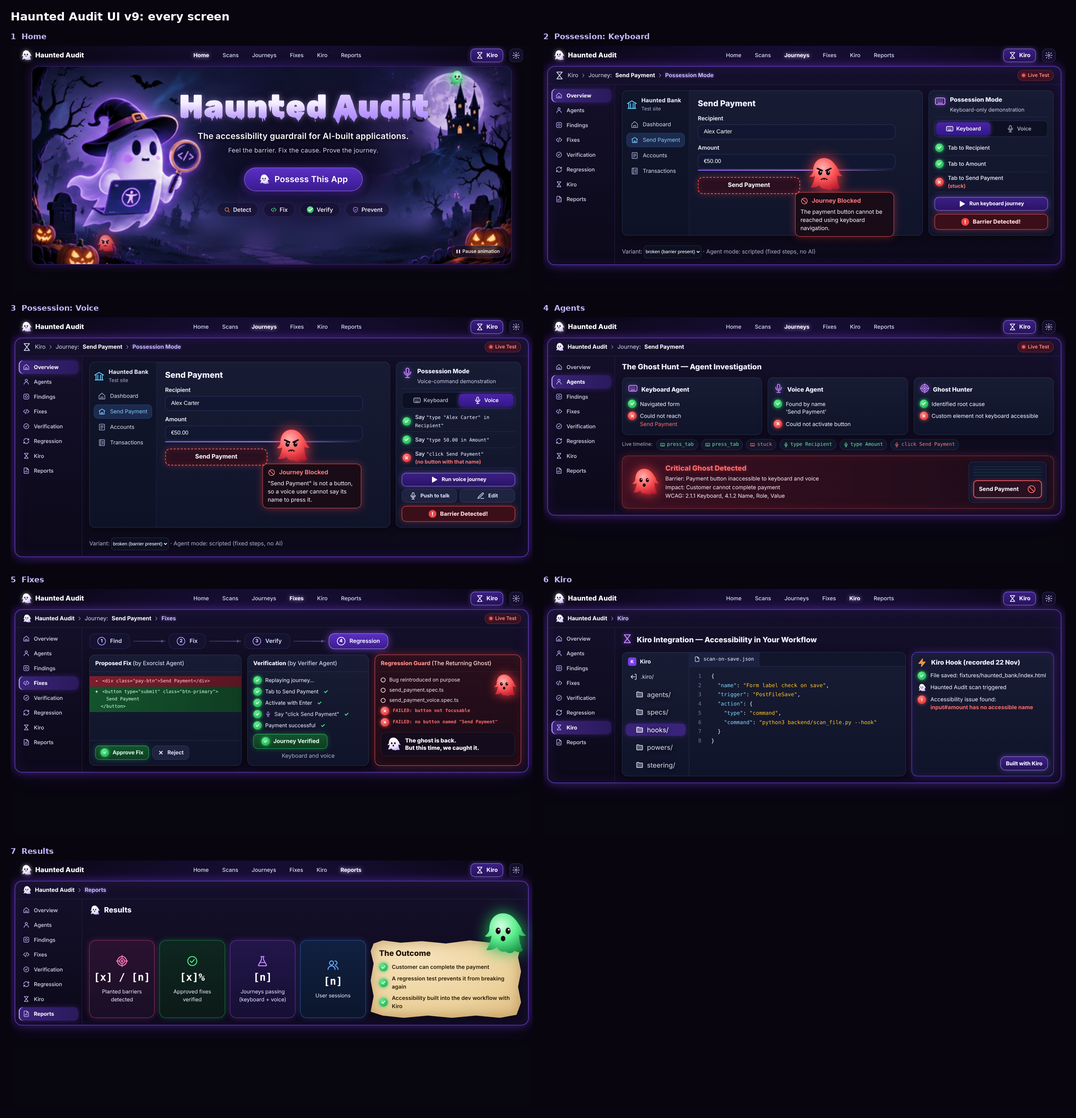
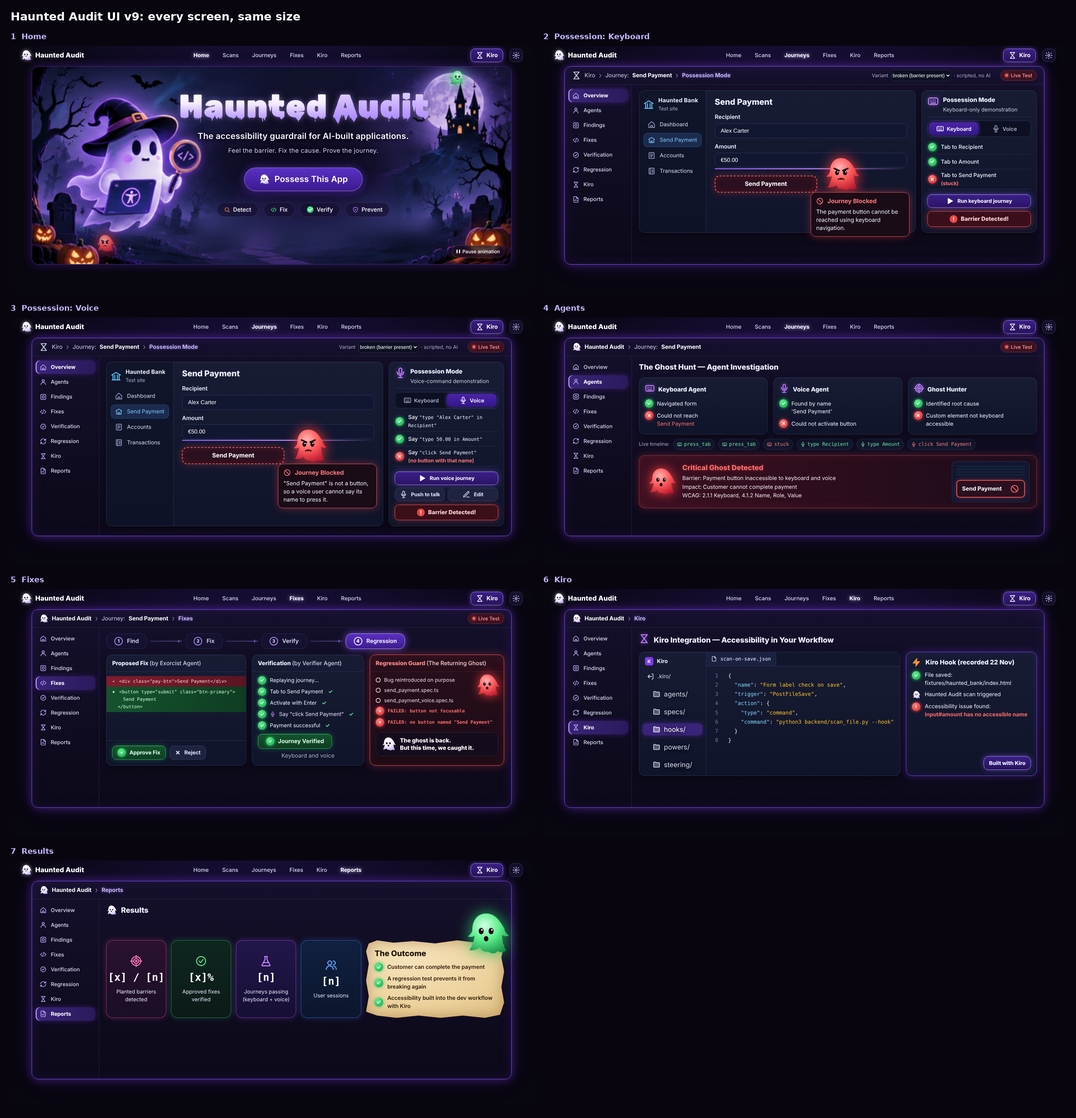
UI v9: all screens same size as Home, Variant in panel top bar

diff --git a/design/v9/01-home.html b/design/v9/01-home.html
@@ -317,7 +317,7 @@ body.paused .roam,body.paused .bob{animation-play-state:paused}
 .brand{font-size:19px}.brand svg{width:32px;height:32px}
 .primary{gap:34px}.primary a{font-size:15.5px}
 .kiropill{min-height:38px;padding:0 14px}.gear{width:38px;height:38px}
-.appframe{margin:4px auto 14px;width:min(100% - 24px,1480px);min-height:max(563px,calc(100vh - 74px))}
+.appframe{margin:4px auto 16px;width:min(100% - 24px,(100vh - 110px)*2.418,1360px);min-height:calc(min(100vw - 24px,(100vh - 110px)*2.418,1360px)*536/1296);border-radius:18px}
 .appbody{align-items:stretch}
 .apphead{padding:9px 20px}.apphead ol{font-size:16px;gap:10px}.apphead li{gap:10px}.apphead li svg{width:26px;height:26px}
 .chip{font-size:14px;padding:4px 12px}
@@ -369,6 +369,7 @@ body.paused .roam,body.paused .bob{animation-play-state:paused}
 .parch{padding:22px 24px}.parch h3{font-size:22px;margin:0 0 10px}.parch li{font-size:15.5px}.parch ul{gap:10px}
 .okghost{width:130px;top:-82px}
 
+#p-possession .payform{padding-top:16px;padding-bottom:16px}#p-possession .steps li{min-height:42px}
 .view{display:none}.view.active{display:block}
 </style>
 </head>
@@ -431,6 +432,8 @@ body.paused .roam,body.paused .bob{animation-play-state:paused}
  <div class="frame appframe">
   <div class="apphead">
    <ol id="crumbs" aria-label="Breadcrumb"></ol>
+   <span id="variantBox" style="display:flex;align-items:center;gap:8px;margin-left:auto;margin-right:12px;color:var(--mute);font-size:14px">
+     <label for="variant">Variant</label><select id="variant" style="background:#0d1022;color:#fff;border:1px solid var(--card-line);border-radius:8px;min-height:32px;font-size:14px"><option value="broken">broken (barrier present)</option><option value="fixed">fixed (barrier repaired)</option></select><span>· scripted, no AI</span></span>
    <span id="liveChip" class="chip idle"><i></i><span id="liveTxt">Ready</span></span>
   </div>
   <div class="appbody">
@@ -483,7 +486,7 @@ body.paused .roam,body.paused .bob{animation-play-state:paused}
        <div class="barrier idle" id="barrier" role="status" aria-live="polite">Run a journey to look for barriers</div>
       </div>
      </div>
-     <p class="dim" style="margin:28px 0 0">Variant: <select id="variant" aria-label="Variant" style="background:#0d1022;color:#fff;border:1px solid var(--card-line);border-radius:8px;min-height:36px"><option value="broken">broken (barrier present)</option><option value="fixed">fixed (barrier repaired)</option></select> · Agent mode: scripted (fixed steps, no AI)</p>
+     
     </div>
 
     <!-- AGENTS (panel C) -->
@@ -755,6 +758,7 @@ function route(){
   if(view!=='home'){$('crumbs').innerHTML=(view==='possession'?`<li>${ico('kiro',20)}Kiro</li>`:`<li><svg width="34" height="34" viewBox="0 0 120 120" aria-hidden="true"><use href="#ghostbody" fill="url(#gW)"/><use href="#face-happy"/></svg><b>Haunted Audit</b></li>`)+CRUMB[view].slice(1).map(c=>`<li>${c}</li>`).join('');}
   renderAll();
   $('liveChip').hidden=!['possession','agents','fixes'].includes(view);
+  $('variantBox').hidden=view!=='possession';
   const h=view==='home'?$('h-home'):document.querySelector('#p-'+view+' h2'); if(h){h.setAttribute('tabindex','-1');h.focus({preventScroll:true});}
   document.title=(view==='home'?'Haunted Audit':(h?h.textContent:'')+' – Haunted Audit');
 }

diff --git a/design/v9/02-possession-keyboard.html b/design/v9/02-possession-keyboard.html
@@ -317,7 +317,7 @@ body.paused .roam,body.paused .bob{animation-play-state:paused}
 .brand{font-size:19px}.brand svg{width:32px;height:32px}
 .primary{gap:34px}.primary a{font-size:15.5px}
 .kiropill{min-height:38px;padding:0 14px}.gear{width:38px;height:38px}
-.appframe{margin:4px auto 14px;width:min(100% - 24px,1480px);min-height:max(563px,calc(100vh - 74px))}
+.appframe{margin:4px auto 16px;width:min(100% - 24px,(100vh - 110px)*2.418,1360px);min-height:calc(min(100vw - 24px,(100vh - 110px)*2.418,1360px)*536/1296);border-radius:18px}
 .appbody{align-items:stretch}
 .apphead{padding:9px 20px}.apphead ol{font-size:16px;gap:10px}.apphead li{gap:10px}.apphead li svg{width:26px;height:26px}
 .chip{font-size:14px;padding:4px 12px}
@@ -369,6 +369,7 @@ body.paused .roam,body.paused .bob{animation-play-state:paused}
 .parch{padding:22px 24px}.parch h3{font-size:22px;margin:0 0 10px}.parch li{font-size:15.5px}.parch ul{gap:10px}
 .okghost{width:130px;top:-82px}
 
+#p-possession .payform{padding-top:16px;padding-bottom:16px}#p-possession .steps li{min-height:42px}
 .view{display:none}.view.active{display:block}
 </style>
 </head>
@@ -431,6 +432,8 @@ body.paused .roam,body.paused .bob{animation-play-state:paused}
  <div class="frame appframe">
   <div class="apphead">
    <ol id="crumbs" aria-label="Breadcrumb"></ol>
+   <span id="variantBox" style="display:flex;align-items:center;gap:8px;margin-left:auto;margin-right:12px;color:var(--mute);font-size:14px">
+     <label for="variant">Variant</label><select id="variant" style="background:#0d1022;color:#fff;border:1px solid var(--card-line);border-radius:8px;min-height:32px;font-size:14px"><option value="broken">broken (barrier present)</option><option value="fixed">fixed (barrier repaired)</option></select><span>· scripted, no AI</span></span>
    <span id="liveChip" class="chip idle"><i></i><span id="liveTxt">Ready</span></span>
   </div>
   <div class="appbody">
@@ -483,7 +486,7 @@ body.paused .roam,body.paused .bob{animation-play-state:paused}
        <div class="barrier idle" id="barrier" role="status" aria-live="polite">Run a journey to look for barriers</div>
       </div>
      </div>
-     <p class="dim" style="margin:28px 0 0">Variant: <select id="variant" aria-label="Variant" style="background:#0d1022;color:#fff;border:1px solid var(--card-line);border-radius:8px;min-height:36px"><option value="broken">broken (barrier present)</option><option value="fixed">fixed (barrier repaired)</option></select> · Agent mode: scripted (fixed steps, no AI)</p>
+     
     </div>
 
     <!-- AGENTS (panel C) -->
@@ -755,6 +758,7 @@ function route(){
   if(view!=='home'){$('crumbs').innerHTML=(view==='possession'?`<li>${ico('kiro',20)}Kiro</li>`:`<li><svg width="34" height="34" viewBox="0 0 120 120" aria-hidden="true"><use href="#ghostbody" fill="url(#gW)"/><use href="#face-happy"/></svg><b>Haunted Audit</b></li>`)+CRUMB[view].slice(1).map(c=>`<li>${c}</li>`).join('');}
   renderAll();
   $('liveChip').hidden=!['possession','agents','fixes'].includes(view);
+  $('variantBox').hidden=view!=='possession';
   const h=view==='home'?$('h-home'):document.querySelector('#p-'+view+' h2'); if(h){h.setAttribute('tabindex','-1');h.focus({preventScroll:true});}
   document.title=(view==='home'?'Haunted Audit':(h?h.textContent:'')+' – Haunted Audit');
 }

diff --git a/design/v9/03-possession-voice.html b/design/v9/03-possession-voice.html
@@ -317,7 +317,7 @@ body.paused .roam,body.paused .bob{animation-play-state:paused}
 .brand{font-size:19px}.brand svg{width:32px;height:32px}
 .primary{gap:34px}.primary a{font-size:15.5px}
 .kiropill{min-height:38px;padding:0 14px}.gear{width:38px;height:38px}
-.appframe{margin:4px auto 14px;width:min(100% - 24px,1480px);min-height:max(563px,calc(100vh - 74px))}
+.appframe{margin:4px auto 16px;width:min(100% - 24px,(100vh - 110px)*2.418,1360px);min-height:calc(min(100vw - 24px,(100vh - 110px)*2.418,1360px)*536/1296);border-radius:18px}
 .appbody{align-items:stretch}
 .apphead{padding:9px 20px}.apphead ol{font-size:16px;gap:10px}.apphead li{gap:10px}.apphead li svg{width:26px;height:26px}
 .chip{font-size:14px;padding:4px 12px}
@@ -369,6 +369,7 @@ body.paused .roam,body.paused .bob{animation-play-state:paused}
 .parch{padding:22px 24px}.parch h3{font-size:22px;margin:0 0 10px}.parch li{font-size:15.5px}.parch ul{gap:10px}
 .okghost{width:130px;top:-82px}
 
+#p-possession .payform{padding-top:16px;padding-bottom:16px}#p-possession .steps li{min-height:42px}
 .view{display:none}.view.active{display:block}
 </style>
 </head>
@@ -431,6 +432,8 @@ body.paused .roam,body.paused .bob{animation-play-state:paused}
  <div class="frame appframe">
   <div class="apphead">
    <ol id="crumbs" aria-label="Breadcrumb"></ol>
+   <span id="variantBox" style="display:flex;align-items:center;gap:8px;margin-left:auto;margin-right:12px;color:var(--mute);font-size:14px">
+     <label for="variant">Variant</label><select id="variant" style="background:#0d1022;color:#fff;border:1px solid var(--card-line);border-radius:8px;min-height:32px;font-size:14px"><option value="broken">broken (barrier present)</option><option value="fixed">fixed (barrier repaired)</option></select><span>· scripted, no AI</span></span>
    <span id="liveChip" class="chip idle"><i></i><span id="liveTxt">Ready</span></span>
   </div>
   <div class="appbody">
@@ -483,7 +486,7 @@ body.paused .roam,body.paused .bob{animation-play-state:paused}
        <div class="barrier idle" id="barrier" role="status" aria-live="polite">Run a journey to look for barriers</div>
       </div>
      </div>
-     <p class="dim" style="margin:28px 0 0">Variant: <select id="variant" aria-label="Variant" style="background:#0d1022;color:#fff;border:1px solid var(--card-line);border-radius:8px;min-height:36px"><option value="broken">broken (barrier present)</option><option value="fixed">fixed (barrier repaired)</option></select> · Agent mode: scripted (fixed steps, no AI)</p>
+     
     </div>
 
     <!-- AGENTS (panel C) -->
@@ -755,6 +758,7 @@ function route(){
   if(view!=='home'){$('crumbs').innerHTML=(view==='possession'?`<li>${ico('kiro',20)}Kiro</li>`:`<li><svg width="34" height="34" viewBox="0 0 120 120" aria-hidden="true"><use href="#ghostbody" fill="url(#gW)"/><use href="#face-happy"/></svg><b>Haunted Audit</b></li>`)+CRUMB[view].slice(1).map(c=>`<li>${c}</li>`).join('');}
   renderAll();
   $('liveChip').hidden=!['possession','agents','fixes'].includes(view);
+  $('variantBox').hidden=view!=='possession';
   const h=view==='home'?$('h-home'):document.querySelector('#p-'+view+' h2'); if(h){h.setAttribute('tabindex','-1');h.focus({preventScroll:true});}
   document.title=(view==='home'?'Haunted Audit':(h?h.textContent:'')+' – Haunted Audit');
 }

diff --git a/design/v9/04-agents.html b/design/v9/04-agents.html
@@ -317,7 +317,7 @@ body.paused .roam,body.paused .bob{animation-play-state:paused}
 .brand{font-size:19px}.brand svg{width:32px;height:32px}
 .primary{gap:34px}.primary a{font-size:15.5px}
 .kiropill{min-height:38px;padding:0 14px}.gear{width:38px;height:38px}
-.appframe{margin:4px auto 14px;width:min(100% - 24px,1480px);min-height:max(563px,calc(100vh - 74px))}
+.appframe{margin:4px auto 16px;width:min(100% - 24px,(100vh - 110px)*2.418,1360px);min-height:calc(min(100vw - 24px,(100vh - 110px)*2.418,1360px)*536/1296);border-radius:18px}
 .appbody{align-items:stretch}
 .apphead{padding:9px 20px}.apphead ol{font-size:16px;gap:10px}.apphead li{gap:10px}.apphead li svg{width:26px;height:26px}
 .chip{font-size:14px;padding:4px 12px}
@@ -369,6 +369,7 @@ body.paused .roam,body.paused .bob{animation-play-state:paused}
 .parch{padding:22px 24px}.parch h3{font-size:22px;margin:0 0 10px}.parch li{font-size:15.5px}.parch ul{gap:10px}
 .okghost{width:130px;top:-82px}
 
+#p-possession .payform{padding-top:16px;padding-bottom:16px}#p-possession .steps li{min-height:42px}
 .view{display:none}.view.active{display:block}
 </style>
 </head>
@@ -431,6 +432,8 @@ body.paused .roam,body.paused .bob{animation-play-state:paused}
  <div class="frame appframe">
   <div class="apphead">
    <ol id="crumbs" aria-label="Breadcrumb"></ol>
+   <span id="variantBox" style="display:flex;align-items:center;gap:8px;margin-left:auto;margin-right:12px;color:var(--mute);font-size:14px">
+     <label for="variant">Variant</label><select id="variant" style="background:#0d1022;color:#fff;border:1px solid var(--card-line);border-radius:8px;min-height:32px;font-size:14px"><option value="broken">broken (barrier present)</option><option value="fixed">fixed (barrier repaired)</option></select><span>· scripted, no AI</span></span>
    <span id="liveChip" class="chip idle"><i></i><span id="liveTxt">Ready</span></span>
   </div>
   <div class="appbody">
@@ -483,7 +486,7 @@ body.paused .roam,body.paused .bob{animation-play-state:paused}
        <div class="barrier idle" id="barrier" role="status" aria-live="polite">Run a journey to look for barriers</div>
       </div>
      </div>
-     <p class="dim" style="margin:28px 0 0">Variant: <select id="variant" aria-label="Variant" style="background:#0d1022;color:#fff;border:1px solid var(--card-line);border-radius:8px;min-height:36px"><option value="broken">broken (barrier present)</option><option value="fixed">fixed (barrier repaired)</option></select> · Agent mode: scripted (fixed steps, no AI)</p>
+     
     </div>
 
     <!-- AGENTS (panel C) -->
@@ -755,6 +758,7 @@ function route(){
   if(view!=='home'){$('crumbs').innerHTML=(view==='possession'?`<li>${ico('kiro',20)}Kiro</li>`:`<li><svg width="34" height="34" viewBox="0 0 120 120" aria-hidden="true"><use href="#ghostbody" fill="url(#gW)"/><use href="#face-happy"/></svg><b>Haunted Audit</b></li>`)+CRUMB[view].slice(1).map(c=>`<li>${c}</li>`).join('');}
   renderAll();
   $('liveChip').hidden=!['possession','agents','fixes'].includes(view);
+  $('variantBox').hidden=view!=='possession';
   const h=view==='home'?$('h-home'):document.querySelector('#p-'+view+' h2'); if(h){h.setAttribute('tabindex','-1');h.focus({preventScroll:true});}
   document.title=(view==='home'?'Haunted Audit':(h?h.textContent:'')+' – Haunted Audit');
 }

diff --git a/design/v9/05-fixes.html b/design/v9/05-fixes.html
@@ -317,7 +317,7 @@ body.paused .roam,body.paused .bob{animation-play-state:paused}
 .brand{font-size:19px}.brand svg{width:32px;height:32px}
 .primary{gap:34px}.primary a{font-size:15.5px}
 .kiropill{min-height:38px;padding:0 14px}.gear{width:38px;height:38px}
-.appframe{margin:4px auto 14px;width:min(100% - 24px,1480px);min-height:max(563px,calc(100vh - 74px))}
+.appframe{margin:4px auto 16px;width:min(100% - 24px,(100vh - 110px)*2.418,1360px);min-height:calc(min(100vw - 24px,(100vh - 110px)*2.418,1360px)*536/1296);border-radius:18px}
 .appbody{align-items:stretch}
 .apphead{padding:9px 20px}.apphead ol{font-size:16px;gap:10px}.apphead li{gap:10px}.apphead li svg{width:26px;height:26px}
 .chip{font-size:14px;padding:4px 12px}
@@ -369,6 +369,7 @@ body.paused .roam,body.paused .bob{animation-play-state:paused}
 .parch{padding:22px 24px}.parch h3{font-size:22px;margin:0 0 10px}.parch li{font-size:15.5px}.parch ul{gap:10px}
 .okghost{width:130px;top:-82px}
 
+#p-possession .payform{padding-top:16px;padding-bottom:16px}#p-possession .steps li{min-height:42px}
 .view{display:none}.view.active{display:block}
 </style>
 </head>
@@ -431,6 +432,8 @@ body.paused .roam,body.paused .bob{animation-play-state:paused}
  <div class="frame appframe">
   <div class="apphead">
    <ol id="crumbs" aria-label="Breadcrumb"></ol>
+   <span id="variantBox" style="display:flex;align-items:center;gap:8px;margin-left:auto;margin-right:12px;color:var(--mute);font-size:14px">
+     <label for="variant">Variant</label><select id="variant" style="background:#0d1022;color:#fff;border:1px solid var(--card-line);border-radius:8px;min-height:32px;font-size:14px"><option value="broken">broken (barrier present)</option><option value="fixed">fixed (barrier repaired)</option></select><span>· scripted, no AI</span></span>
    <span id="liveChip" class="chip idle"><i></i><span id="liveTxt">Ready</span></span>
   </div>
   <div class="appbody">
@@ -483,7 +486,7 @@ body.paused .roam,body.paused .bob{animation-play-state:paused}
        <div class="barrier idle" id="barrier" role="status" aria-live="polite">Run a journey to look for barriers</div>
       </div>
      </div>
-     <p class="dim" style="margin:28px 0 0">Variant: <select id="variant" aria-label="Variant" style="background:#0d1022;color:#fff;border:1px solid var(--card-line);border-radius:8px;min-height:36px"><option value="broken">broken (barrier present)</option><option value="fixed">fixed (barrier repaired)</option></select> · Agent mode: scripted (fixed steps, no AI)</p>
+     
     </div>
 
     <!-- AGENTS (panel C) -->
@@ -755,6 +758,7 @@ function route(){
   if(view!=='home'){$('crumbs').innerHTML=(view==='possession'?`<li>${ico('kiro',20)}Kiro</li>`:`<li><svg width="34" height="34" viewBox="0 0 120 120" aria-hidden="true"><use href="#ghostbody" fill="url(#gW)"/><use href="#face-happy"/></svg><b>Haunted Audit</b></li>`)+CRUMB[view].slice(1).map(c=>`<li>${c}</li>`).join('');}
   renderAll();
   $('liveChip').hidden=!['possession','agents','fixes'].includes(view);
+  $('variantBox').hidden=view!=='possession';
   const h=view==='home'?$('h-home'):document.querySelector('#p-'+view+' h2'); if(h){h.setAttribute('tabindex','-1');h.focus({preventScroll:true});}
   document.title=(view==='home'?'Haunted Audit':(h?h.textContent:'')+' – Haunted Audit');
 }

diff --git a/design/v9/06-kiro.html b/design/v9/06-kiro.html
@@ -317,7 +317,7 @@ body.paused .roam,body.paused .bob{animation-play-state:paused}
 .brand{font-size:19px}.brand svg{width:32px;height:32px}
 .primary{gap:34px}.primary a{font-size:15.5px}
 .kiropill{min-height:38px;padding:0 14px}.gear{width:38px;height:38px}
-.appframe{margin:4px auto 14px;width:min(100% - 24px,1480px);min-height:max(563px,calc(100vh - 74px))}
+.appframe{margin:4px auto 16px;width:min(100% - 24px,(100vh - 110px)*2.418,1360px);min-height:calc(min(100vw - 24px,(100vh - 110px)*2.418,1360px)*536/1296);border-radius:18px}
 .appbody{align-items:stretch}
 .apphead{padding:9px 20px}.apphead ol{font-size:16px;gap:10px}.apphead li{gap:10px}.apphead li svg{width:26px;height:26px}
 .chip{font-size:14px;padding:4px 12px}
@@ -369,6 +369,7 @@ body.paused .roam,body.paused .bob{animation-play-state:paused}
 .parch{padding:22px 24px}.parch h3{font-size:22px;margin:0 0 10px}.parch li{font-size:15.5px}.parch ul{gap:10px}
 .okghost{width:130px;top:-82px}
 
+#p-possession .payform{padding-top:16px;padding-bottom:16px}#p-possession .steps li{min-height:42px}
 .view{display:none}.view.active{display:block}
 </style>
 </head>
@@ -431,6 +432,8 @@ body.paused .roam,body.paused .bob{animation-play-state:paused}
  <div class="frame appframe">
   <div class="apphead">
    <ol id="crumbs" aria-label="Breadcrumb"></ol>
+   <span id="variantBox" style="display:flex;align-items:center;gap:8px;margin-left:auto;margin-right:12px;color:var(--mute);font-size:14px">
+     <label for="variant">Variant</label><select id="variant" style="background:#0d1022;color:#fff;border:1px solid var(--card-line);border-radius:8px;min-height:32px;font-size:14px"><option value="broken">broken (barrier present)</option><option value="fixed">fixed (barrier repaired)</option></select><span>· scripted, no AI</span></span>
    <span id="liveChip" class="chip idle"><i></i><span id="liveTxt">Ready</span></span>
   </div>
   <div class="appbody">
@@ -483,7 +486,7 @@ body.paused .roam,body.paused .bob{animation-play-state:paused}
        <div class="barrier idle" id="barrier" role="status" aria-live="polite">Run a journey to look for barriers</div>
       </div>
      </div>
-     <p class="dim" style="margin:28px 0 0">Variant: <select id="variant" aria-label="Variant" style="background:#0d1022;color:#fff;border:1px solid var(--card-line);border-radius:8px;min-height:36px"><option value="broken">broken (barrier present)</option><option value="fixed">fixed (barrier repaired)</option></select> · Agent mode: scripted (fixed steps, no AI)</p>
+     
     </div>
 
     <!-- AGENTS (panel C) -->
@@ -755,6 +758,7 @@ function route(){
   if(view!=='home'){$('crumbs').innerHTML=(view==='possession'?`<li>${ico('kiro',20)}Kiro</li>`:`<li><svg width="34" height="34" viewBox="0 0 120 120" aria-hidden="true"><use href="#ghostbody" fill="url(#gW)"/><use href="#face-happy"/></svg><b>Haunted Audit</b></li>`)+CRUMB[view].slice(1).map(c=>`<li>${c}</li>`).join('');}
   renderAll();
   $('liveChip').hidden=!['possession','agents','fixes'].includes(view);
+  $('variantBox').hidden=view!=='possession';
   const h=view==='home'?$('h-home'):document.querySelector('#p-'+view+' h2'); if(h){h.setAttribute('tabindex','-1');h.focus({preventScroll:true});}
   document.title=(view==='home'?'Haunted Audit':(h?h.textContent:'')+' – Haunted Audit');
 }

diff --git a/design/v9/07-results.html b/design/v9/07-results.html
@@ -317,7 +317,7 @@ body.paused .roam,body.paused .bob{animation-play-state:paused}
 .brand{font-size:19px}.brand svg{width:32px;height:32px}
 .primary{gap:34px}.primary a{font-size:15.5px}
 .kiropill{min-height:38px;padding:0 14px}.gear{width:38px;height:38px}
-.appframe{margin:4px auto 14px;width:min(100% - 24px,1480px);min-height:max(563px,calc(100vh - 74px))}
+.appframe{margin:4px auto 16px;width:min(100% - 24px,(100vh - 110px)*2.418,1360px);min-height:calc(min(100vw - 24px,(100vh - 110px)*2.418,1360px)*536/1296);border-radius:18px}
 .appbody{align-items:stretch}
 .apphead{padding:9px 20px}.apphead ol{font-size:16px;gap:10px}.apphead li{gap:10px}.apphead li svg{width:26px;height:26px}
 .chip{font-size:14px;padding:4px 12px}
@@ -369,6 +369,7 @@ body.paused .roam,body.paused .bob{animation-play-state:paused}
 .parch{padding:22px 24px}.parch h3{font-size:22px;margin:0 0 10px}.parch li{font-size:15.5px}.parch ul{gap:10px}
 .okghost{width:130px;top:-82px}
 
+#p-possession .payform{padding-top:16px;padding-bottom:16px}#p-possession .steps li{min-height:42px}
 .view{display:none}.view.active{display:block}
 </style>
 </head>
@@ -431,6 +432,8 @@ body.paused .roam,body.paused .bob{animation-play-state:paused}
  <div class="frame appframe">
   <div class="apphead">
    <ol id="crumbs" aria-label="Breadcrumb"></ol>
+   <span id="variantBox" style="display:flex;align-items:center;gap:8px;margin-left:auto;margin-right:12px;color:var(--mute);font-size:14px">
+     <label for="variant">Variant</label><select id="variant" style="background:#0d1022;color:#fff;border:1px solid var(--card-line);border-radius:8px;min-height:32px;font-size:14px"><option value="broken">broken (barrier present)</option><option value="fixed">fixed (barrier repaired)</option></select><span>· scripted, no AI</span></span>
    <span id="liveChip" class="chip idle"><i></i><span id="liveTxt">Ready</span></span>
   </div>
   <div class="appbody">
@@ -483,7 +486,7 @@ body.paused .roam,body.paused .bob{animation-play-state:paused}
        <div class="barrier idle" id="barrier" role="status" aria-live="polite">Run a journey to look for barriers</div>
       </div>
      </div>
-     <p class="dim" style="margin:28px 0 0">Variant: <select id="variant" aria-label="Variant" style="background:#0d1022;color:#fff;border:1px solid var(--card-line);border-radius:8px;min-height:36px"><option value="broken">broken (barrier present)</option><option value="fixed">fixed (barrier repaired)</option></select> · Agent mode: scripted (fixed steps, no AI)</p>
+     
     </div>
 
     <!-- AGENTS (panel C) -->
@@ -755,6 +758,7 @@ function route(){
   if(view!=='home'){$('crumbs').innerHTML=(view==='possession'?`<li>${ico('kiro',20)}Kiro</li>`:`<li><svg width="34" height="34" viewBox="0 0 120 120" aria-hidden="true"><use href="#ghostbody" fill="url(#gW)"/><use href="#face-happy"/></svg><b>Haunted Audit</b></li>`)+CRUMB[view].slice(1).map(c=>`<li>${c}</li>`).join('');}
   renderAll();
   $('liveChip').hidden=!['possession','agents','fixes'].includes(view);
+  $('variantBox').hidden=view!=='possession';
   const h=view==='home'?$('h-home'):document.querySelector('#p-'+view+' h2'); if(h){h.setAttribute('tabindex','-1');h.focus({preventScroll:true});}
   document.title=(view==='home'?'Haunted Audit':(h?h.textContent:'')+' – Haunted Audit');
 }

diff --git a/design/v9/index.html b/design/v9/index.html
@@ -317,7 +317,7 @@ body.paused .roam,body.paused .bob{animation-play-state:paused}
 .brand{font-size:19px}.brand svg{width:32px;height:32px}
 .primary{gap:34px}.primary a{font-size:15.5px}
 .kiropill{min-height:38px;padding:0 14px}.gear{width:38px;height:38px}
-.appframe{margin:4px auto 14px;width:min(100% - 24px,1480px);min-height:max(563px,calc(100vh - 74px))}
+.appframe{margin:4px auto 16px;width:min(100% - 24px,(100vh - 110px)*2.418,1360px);min-height:calc(min(100vw - 24px,(100vh - 110px)*2.418,1360px)*536/1296);border-radius:18px}
 .appbody{align-items:stretch}
 .apphead{padding:9px 20px}.apphead ol{font-size:16px;gap:10px}.apphead li{gap:10px}.apphead li svg{width:26px;height:26px}
 .chip{font-size:14px;padding:4px 12px}
@@ -369,6 +369,7 @@ body.paused .roam,body.paused .bob{animation-play-state:paused}
 .parch{padding:22px 24px}.parch h3{font-size:22px;margin:0 0 10px}.parch li{font-size:15.5px}.parch ul{gap:10px}
 .okghost{width:130px;top:-82px}
 
+#p-possession .payform{padding-top:16px;padding-bottom:16px}#p-possession .steps li{min-height:42px}
 .view{display:none}.view.active{display:block}
 </style>
 </head>
@@ -431,6 +432,8 @@ body.paused .roam,body.paused .bob{animation-play-state:paused}
  <div class="frame appframe">
   <div class="apphead">
    <ol id="crumbs" aria-label="Breadcrumb"></ol>
+   <span id="variantBox" style="display:flex;align-items:center;gap:8px;margin-left:auto;margin-right:12px;color:var(--mute);font-size:14px">
+     <label for="variant">Variant</label><select id="variant" style="background:#0d1022;color:#fff;border:1px solid var(--card-line);border-radius:8px;min-height:32px;font-size:14px"><option value="broken">broken (barrier present)</option><option value="fixed">fixed (barrier repaired)</option></select><span>· scripted, no AI</span></span>
    <span id="liveChip" class="chip idle"><i></i><span id="liveTxt">Ready</span></span>
   </div>
   <div class="appbody">
@@ -483,7 +486,7 @@ body.paused .roam,body.paused .bob{animation-play-state:paused}
        <div class="barrier idle" id="barrier" role="status" aria-live="polite">Run a journey to look for barriers</div>
       </div>
      </div>
-     <p class="dim" style="margin:28px 0 0">Variant: <select id="variant" aria-label="Variant" style="background:#0d1022;color:#fff;border:1px solid var(--card-line);border-radius:8px;min-height:36px"><option value="broken">broken (barrier present)</option><option value="fixed">fixed (barrier repaired)</option></select> · Agent mode: scripted (fixed steps, no AI)</p>
+     
     </div>
 
     <!-- AGENTS (panel C) -->
@@ -755,6 +758,7 @@ function route(){
   if(view!=='home'){$('crumbs').innerHTML=(view==='possession'?`<li>${ico('kiro',20)}Kiro</li>`:`<li><svg width="34" height="34" viewBox="0 0 120 120" aria-hidden="true"><use href="#ghostbody" fill="url(#gW)"/><use href="#face-happy"/></svg><b>Haunted Audit</b></li>`)+CRUMB[view].slice(1).map(c=>`<li>${c}</li>`).join('');}
   renderAll();
   $('liveChip').hidden=!['possession','agents','fixes'].includes(view);
+  $('variantBox').hidden=view!=='possession';
   const h=view==='home'?$('h-home'):document.querySelector('#p-'+view+' h2'); if(h){h.setAttribute('tabindex','-1');h.focus({preventScroll:true});}
   document.title=(view==='home'?'Haunted Audit':(h?h.textContent:'')+' – Haunted Audit');
 }
